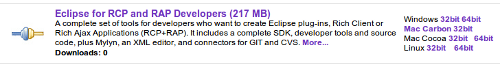
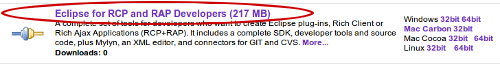
Removed the term "Runtime SDK", minor changes

Changed region(s): [[0.0, 0.0, 0.63, 0.3881]]

diff --git a/downloads/runtime-install.php b/downloads/runtime-install.php
@@ -1,59 +1,56 @@
 <?php  																														require_once($_SERVER['DOCUMENT_ROOT'] . "/eclipse.org-common/system/app.class.php");	require_once($_SERVER['DOCUMENT_ROOT'] . "/eclipse.org-common/system/nav.class.php"); 	require_once($_SERVER['DOCUMENT_ROOT'] . "/eclipse.org-common/system/menu.class.php"); 	$App 	= new App();	$Nav	= new Nav();	$Menu 	= new Menu();		include($App->getProjectCommon());    # All on the same line to unclutter the user's desktop'
 
-	#
-	# Begin: page-specific settings.  Change these.
-$pageTitle 		= "RAP Project - Runtime SDK Installation";
+#
+# Begin: page-specific settings.  Change these.
+$pageTitle 		= "RAP Project - Target Installation";
 $pageKeywords   = "Ajax, rap, osgi, equinox, eclipse rap, equinox rap";
 $pageAuthor		= "Jochen Krause";
 
-	# Paste your HTML content between the EOHTML markers!
+# Paste your HTML content between the EOHTML markers!
 $html = <<<EOHTML
 
 <div id="midcolumn">
-    <h1>Runtime SDK Installation</h1>
+  <h1>Target Installation</h1>
 
-    <div class="homeitem3col">
-      <p style="margin: 10px">
-        RAP applications need to be compiled against the RAP Runtime SDK. To
-        do so, the SDK needs to be set as the target platform in Eclipse.
-        This can either be done by the <a href="../gettingstarted.php">RAP 
-        Tooling</a> or manually.
-        <ol>
-          <li>Open <b>Window &gt; Preferences</b> and go to the <b>Plug-in 
-            Development &gt; Target Platform</b> preference page.       
+  <div class="homeitem3col">
+    <p style="margin: 10px">
+      RAP applications need to be compiled against the RAP runtime.
+      To do so, the runtime needs to be set as the target platform in Eclipse.
+      This can either be done by the <a href="../gettingstarted.php">RAP
+      Tooling</a> or manually.
+      <ol>
+        <li>Open <b>Window &gt; Preferences</b> and go to the <b>Plug-in
+          Development &gt; Target Platform</b> preference page.</li>
+        <li>Add a new target definition and initialize it with "nothing".</li>
+        <li>On the next page, click <b>Add</b> and choose <b>Software Site</b>
+          from the Add Content wizard.</li>
+        <li>On the following page, enter the URL to the RAP software repository
+          in the <b>Work with</b> field and press enter. These repositories are
+          currently available:
+          <ul>
+            <li><b>RAP 1.2</b>: http://download.eclipse.org/rt/rap/1.2/runtime-update</li>
+            <li><b>RAP 1.3</b>: http://download.eclipse.org/rt/rap/1.3/runtime</li>
+          </ul>
           </li>
-          <li>Add a new target definition and initialize it with "nothing".</li>
-          <li>On the next page, click <b>Add</b> and choose <b>Software Site</b> 
-            from the Add Content wizard.</li>
-          <li>On the following page, enter the URL to the RAP software repository 
-            in the <b>Work with</b> field and press enter. These repositories are
-            currently available:
-            <ul>
-              <li><b>RAP 1.2</b>: http://download.eclipse.org/rt/rap/1.2/runtime-update</li>
-              <li><b>RAP 1.3</b>: http://download.eclipse.org/rt/rap/1.3/runtime</li>
-            </ul>
-            </li>   
-          <li>Select the target to install from the list below.</li> 
-          <li>Make sure the checkbox <b>Include required software</b> is <b>not 
-            checked</b>.</li>
-          <li>Click <b>Finish</b>. After the download is completed, click <b>Finish</b> 
-            again to save the new target definition.</li>
-          <li>Activate the new target on the target platform preference page.</li> 
-        </ol>
-      </p>
-      <p style="margin: 10px">
-        Note: if doing this with a workspace that already contains projects that
-        depend on the target, you may get compile errors. Restarting Eclipse and/or
-        doing a clean build will help.
-      </p>
-      </p>
-    </div>
+        <li>Select the target to install from the list below.</li>
+        <li>Make sure the checkbox <b>Include required software</b> is <b>not
+          checked</b>.</li>
+        <li>Click <b>Finish</b>. After the download is completed, click <b>Finish</b>
+          again to save the new target definition.</li>
+        <li>Activate the new target on the target platform preference page.</li>
+      </ol>
+    </p>
+    <p style="margin: 10px">
+      Note: if doing this with a workspace that already contains projects that
+      depend on the target, you may get compile errors. Restarting Eclipse and/or
+      doing a clean build will help.
+    </p>
+  </div>
 
 </div> <!-- midcolumn -->
 
 EOHTML;
 
-
-	# Generate the web page
+# Generate the web page
 $App->generatePage($theme, $Menu, $Nav, $pageAuthor, $pageKeywords, $pageTitle, $html);
 ?>

diff --git a/downloads/index.php b/downloads/index.php
@@ -16,30 +16,33 @@ $html = <<<EOHTML
   <div class="homeitem3col">
     <p>
       The most convenient way to get RAP is the <strong>Eclipse for
-      RCP/Plug-in Developers</strong> package from the
+      RCP and RAP Developers</strong> package from the
       <a href="http://eclipse.org/downloads/?tab=developer">Helios Development 
         Builds download page</a>.
       This IDE already includes everything you need to develop RCP and RAP
       applications.
     </p>
     <p>
-      <img src="../images/rcp-epp.png"/>
+      <a href="http://eclipse.org/downloads/?tab=developer">
+        <img src="../images/rcp-epp.png"/>
+      </a>
     </p>
   </div>
 
   <div class="homeitem3col">
     <h3>RAP Tooling</h3>
     <p style="margin: 10px">
-      The RAP Tooling contains useful tools, templates and documentation.
-      It also installs the RAP Runtime SDK which is included.
+      The RAP Tooling contains useful tools, templates and documentation for RAP
+      developers.
+      It also installs the RAP target platform which is included.
       See the <a href="../gettingstarted.php">Getting Started Guide</a>
       for a description on how to install RAP and build your first RAP
       application.
     </p>
 
-      <p style="margin: 10px"><b>1.3 RC2 Build</b></p>
+    <p style="margin: 10px"><b>1.3 RC2 Build</b></p>
     <p style="margin: 10px 10px 10px 20px">
-        The latest 1.3 release candidate build, for use with Eclipse 3.5 and 3.6.
+      The latest 1.3 release candidate build, for use with Eclipse 3.5 and 3.6.
       <br />
         <a href="../noteworthy/news_13RC.php">New &amp; Noteworthy</a>
       <br />
@@ -80,8 +83,8 @@ $html = <<<EOHTML
       This contains the RAP runtime, including sources and a simple demo
       application. Note that this is already included in the RAP Tooling.
       <br />
-      To develop RAP applications you need to set the RAP Runtime SDK as your
-      target platform. See the <a href="runtime-install.php">Runtime SDK
+      To develop RAP applications you need to set the RAP runtime as your
+      target platform. See the <a href="runtime-install.php">Target
       Installation</a> page for a description on how to work with the target
       platform.
       <br />
@@ -89,9 +92,9 @@ $html = <<<EOHTML
       the Eclipse IDE.
     </p>
 
-      <p style="margin: 10px"><b>1.3 RC2 Build</b></p>
+    <p style="margin: 10px"><b>1.3 RC2 Build</b></p>
     <p style="margin: 10px 10px 10px 20px">
-        The latest release candidate build, based on Eclipse 3.6.
+      The latest release candidate build, based on Eclipse 3.6.
       <br />
         <a href="../noteworthy/news_13RC.php">New &amp; Noteworthy</a>
       <br />
@@ -152,7 +155,7 @@ $html = <<<EOHTML
                </td>
              </tr>
              <tr>
-               <td>RAP 1.1 and older versions</td>
+               <td>Older RAP versions and archived builds</td>
              </tr>
            </table>
          </td>

diff --git a/introduction.php b/introduction.php
@@ -93,8 +93,8 @@
       <p>
         In addition, we provide the RAP Tooling which contains useful tools,
         templates and documentation.
-        It simplifies the installation of the RAP Runtime SDK and the launching
-        of RAP applications from Eclipse.
+        It simplifies the installation of the RAP target platform and the
+        launching of RAP applications from Eclipse.
         You can download the RAP Tooling from the download section on the
         left to get right started.
         A user guide is part of the Tooling and can also be accessed

diff --git a/index.php b/index.php
@@ -8,7 +8,7 @@ $pageAuthor		= "Jochen Krause";
 $html = <<<EOHTML
 <div id="maincontent">
   <div id="midcolumn">
-  <h1>Eclipse Rich Ajax Platform Home</h1>
+  <h1>Eclipse Rich Ajax Platform</h1>
     <p align="center">
       <img src="images/screens.png" width="500" height="248" border="0"/>
     </p>  
